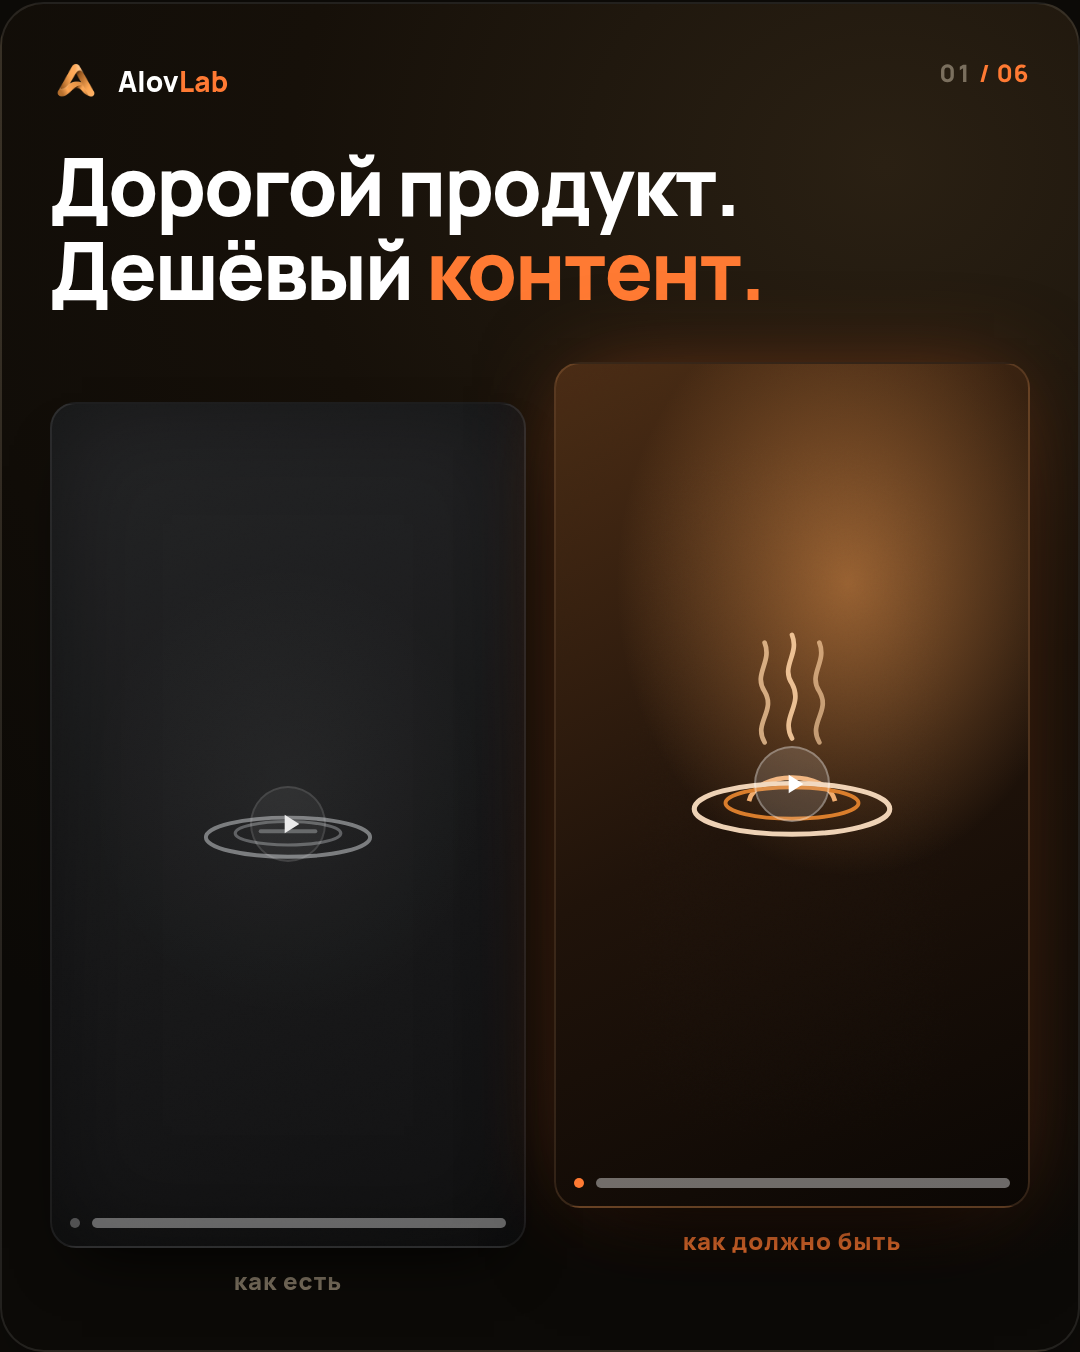
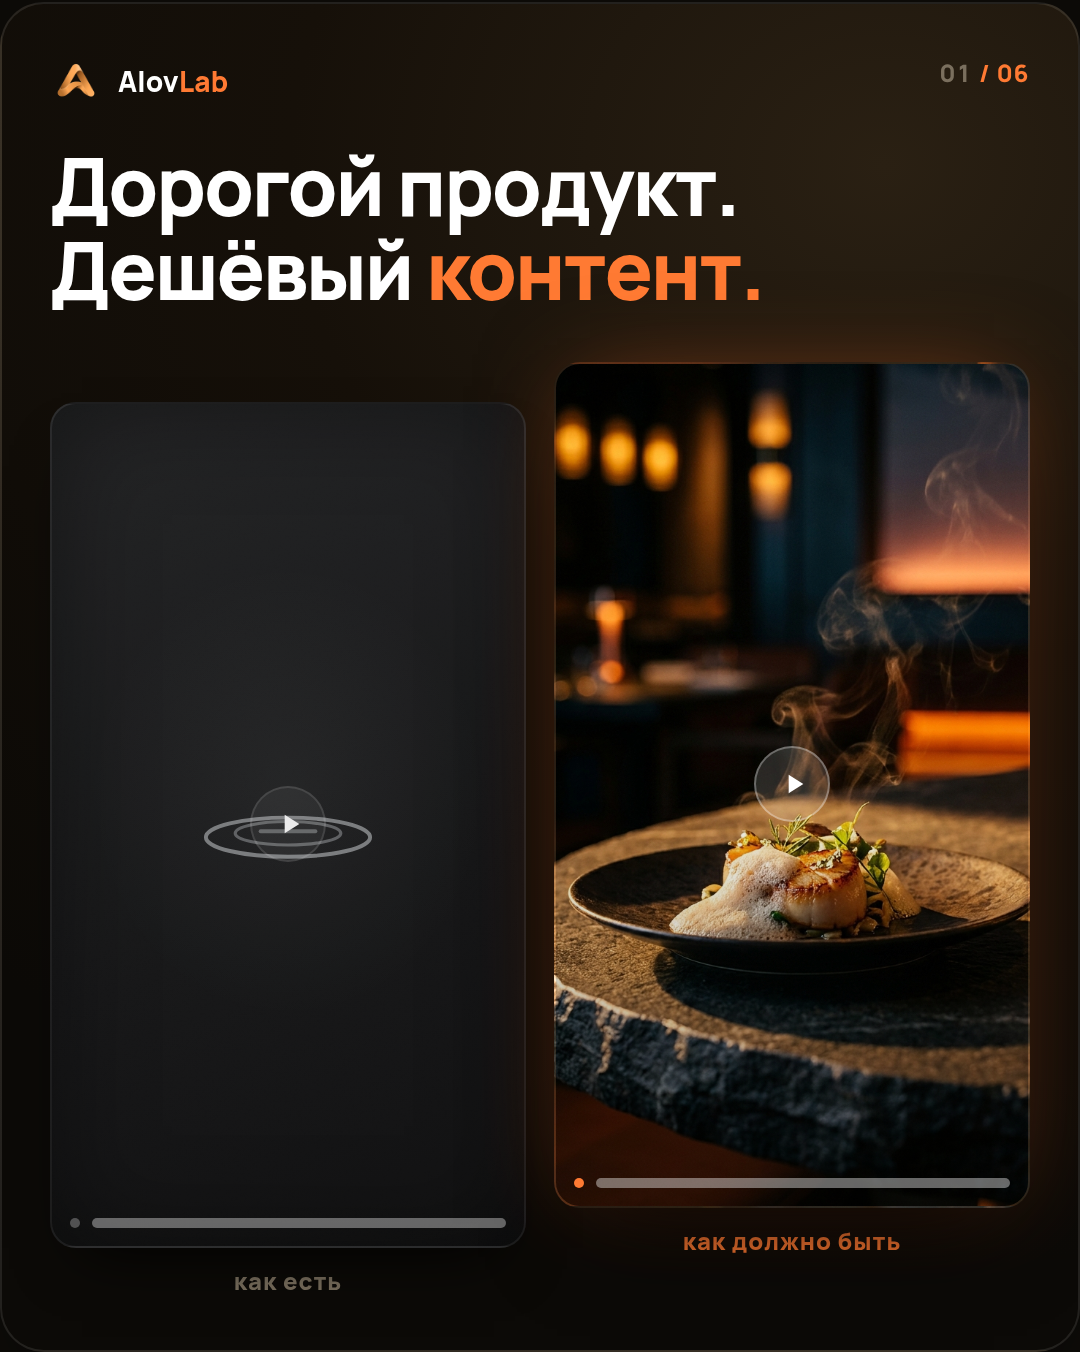
feat(carousels): реальные фото в обложку, провокацию и пик (ресторан)
Слоты photos: cover_rich/prov = кадр с атмосферой зала, pik = кадр с трюфелем.
Слайды 1,2,5 пересобраны с реальными кинокадрами (концепт-съёмка).

Claude-Session: https://claude.ai/code/session_019LoRMaWcrsShywAHDg8vmg

Changed region(s): [[0.4889, 0.2485, 0.9778, 0.9009]]

diff --git a/scripts/carousel_render.py b/scripts/carousel_render.py
@@ -322,7 +322,11 @@ CONFIGS = {
     "pik_h": 'Один ролик<br><span class="a">наполняет зал.</span>',
     "pik_cap": "Пар над фирменным блюдом. Голос шефа. Свет, в котором хочется остаться.",
     "pik_note": "Не распыляй бюджет на десять средних. Собери один сильный — и разложи на неделю.",
-    "photos": {},  # {"cover_rich":"content/carousel-assets/restaurant/hero.png","pik":"...","prov":"..."}
+    "photos": {
+      "cover_rich": "content/carousel-assets/restaurant/hf_20260805_131843_164fe080-d862-4b73-a1b7-dbe6f4662e9f.png",
+      "prov":       "content/carousel-assets/restaurant/hf_20260805_131843_164fe080-d862-4b73-a1b7-dbe6f4662e9f.png",
+      "pik":        "content/carousel-assets/restaurant/hf_20260805_131843_27649360-b457-42af-a557-5abcdd8446fa.png",
+    },
   },
 }
 
